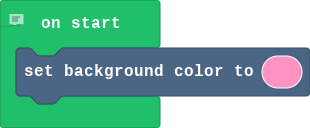
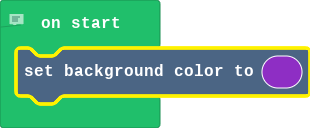
background color

Changed region(s): [[0.029, 0.3438, 1.0, 0.8438]]

diff --git a/main.ts b/main.ts
@@ -1,2 +1,2 @@
 // Don't forget to comment your code as you work!
-scene.setBackgroundColor(3)
+scene.setBackgroundColor(10)
